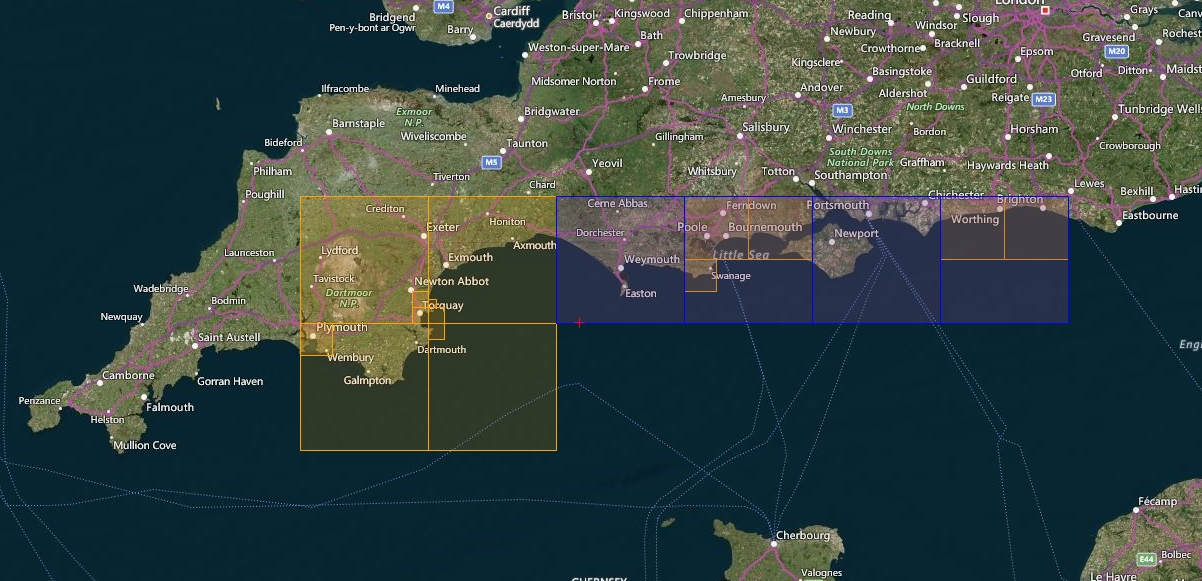
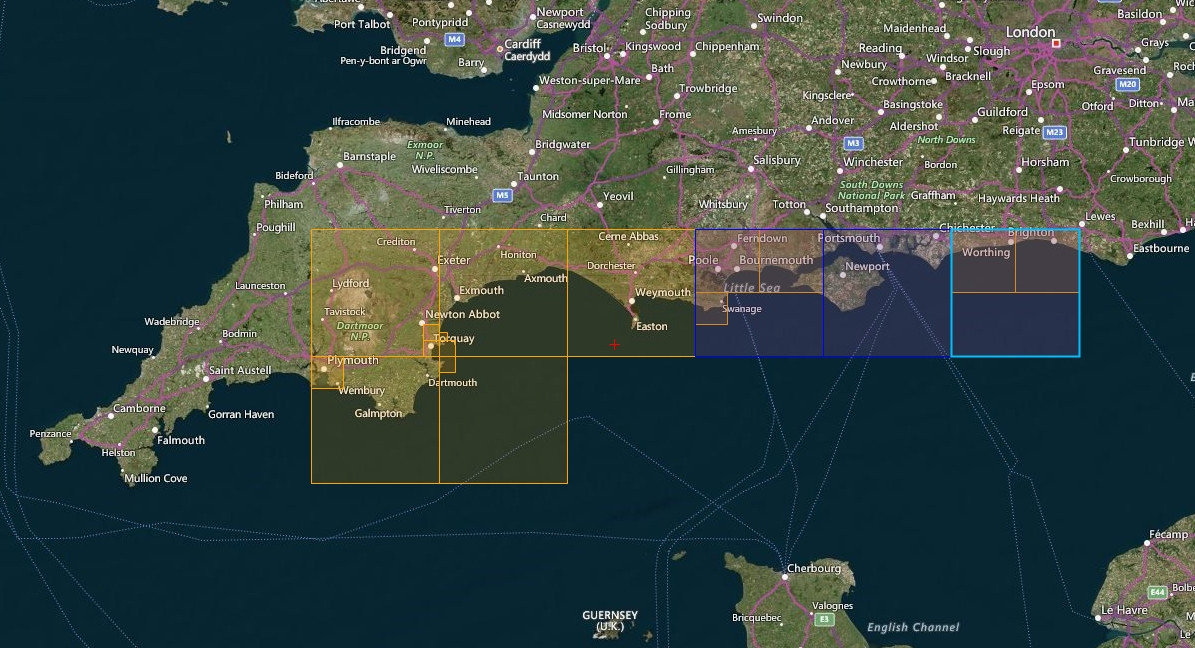
Release content

diff --git a/scenery/uk_portsmouth.md b/scenery/uk_portsmouth.md
@@ -124,16 +124,16 @@ A number of helipads like on the The Needles lighthouse on the Isle of Wight, as
 
 <div class="download-panel">
 
-<a class="download-button" href="">
-Download Images - Part 1 (# GB)
+<a class="download-button" href="https://drive.google.com/file/d/1cMdEy6V-El79WGn9_hHX1bDuFOIC-LMH/view?usp=drive_link">
+Download Images - Part 1 (3.09 GB)
 </a>
 
-<a class="download-button" href="">
-Download Images - Part 2 (# GB)
+<a class="download-button" href="https://drive.google.com/file/d/1uiPsZuhS62rdPbhdVkkhvupqUAKZoPLm/view?usp=drive_link">
+Download Images - Part 2 (3.04 GB)
 </a>
 
-<a class="download-button" href="">
-Download Data FS4 (# GB)
+<a class="download-button" href="https://drive.google.com/file/d/1_Ja9qIOMjS_dseERQBTs_P2rtEuj6ldb/view?usp=drive_link">
+Download Data FS4 (28.7 MB)
 </a>
 
 </div>
@@ -144,16 +144,16 @@ Download Data FS4 (# GB)
 
 <div class="download-panel">
 
-<a class="download-button" href="#">
-Download Images - Part 1 (# GB)
+<a class="download-button" href="https://drive.google.com/file/d/1EOS_f3eypphE0SnpZp8MhxEzMiH7xQ8E/view?usp=drive_link">
+Download Images - Part 1 (855.3 MB)
 </a>
 
-<a class="download-button" href="#">
-Download Images - Part 2 (# GB)
+<a class="download-button" href="https://drive.google.com/file/d/1j0UDNL_KbZ3HPYQ5kUXzRE51HqL5ZpSE/view?usp=drive_link">
+Download Images - Part 2 (802.6 MB)
 </a>
 
-<a class="download-button" href="#">
-Download Data FSG (# MB)
+<a class="download-button" href="https://drive.google.com/file/d/1gmd5HQxJ68TWSCPTsAgWG7y8gB73aAr5/view?usp=drive_link">
+Download Data FSG (28.8 MB)
 </a>
 
 

diff --git a/index.md b/index.md
@@ -74,6 +74,15 @@ High quality freeware addons for:
   </div>
 </a>
 
+<a class="country-card" href="countries/cy.html">
+  <img src="assets/images/countries/cy.jpg">
+
+  <div class="country-overlay">
+    <h2>🇨🇾 Cyprus</h2>
+    <p>1 Scenery</p>
+  </div>
+</a>
+
 <a class="country-card" href="countries/gr.html">
   <img src="assets/images/countries/gr.jpg">
 
@@ -125,6 +134,15 @@ High quality freeware addons for:
   <div class="country-overlay">
     <h2>🇯🇵 Japan</h2>
     <p>2 Sceneries</p>
+  </div>
+</a>
+
+<a class="country-card" href="countries/lb.html">
+  <img src="assets/images/countries/lb.jpg">
+
+  <div class="country-overlay">
+    <h2>🇱🇧 Lebanon</h2>
+    <p>1 Scenery</p>
   </div>
 </a>
 
@@ -197,6 +215,15 @@ High quality freeware addons for:
   <div class="country-overlay">
     <h2>🇹🇷 Turkey</h2>
     <p>2 Sceneries (4 Regions)</p>
+  </div>
+</a>
+
+<a class="country-card" href="countries/uk.html">
+  <img src="assets/images/countries/uk.jpg">
+
+  <div class="country-overlay">
+    <h2>🇬🇧 United Kingdom </h2>
+    <p>1 Scenery (2 Regions)</p>
   </div>
 </a>
 

diff --git a/changelog.md b/changelog.md
@@ -6,6 +6,11 @@ title: Change Log
 # Change Log
 
 ## 2026-08-07
+- 🇨🇾 [Cyprus Island Photo Scenery](scenery/cy_cyprus.html) released / v1.0
+- 🇱🇧 [Beirut Enlarged Area Photo Scenery](scenery/lb_beirut.html) released / v1.0
+- 🇬🇧 [Portsmouth, Isle of Wight and South Coast Scenery](scenery/uk_portsmouth.html) added / v1.0
+
+## 2026-08-07
 - 🇮🇸 [Reykjavik Extended Area Photo Scenery](scenery/is_reykjavik.html) released / v1.0
 - 🇮🇪 [Belfast Photo Scenery](scenery/ie_belfast.html) released / v1.0
 - 🇳🇴 [Jan Mayen Island Photo Scenery](scenery/no_janmayen.html) added / v1.1
